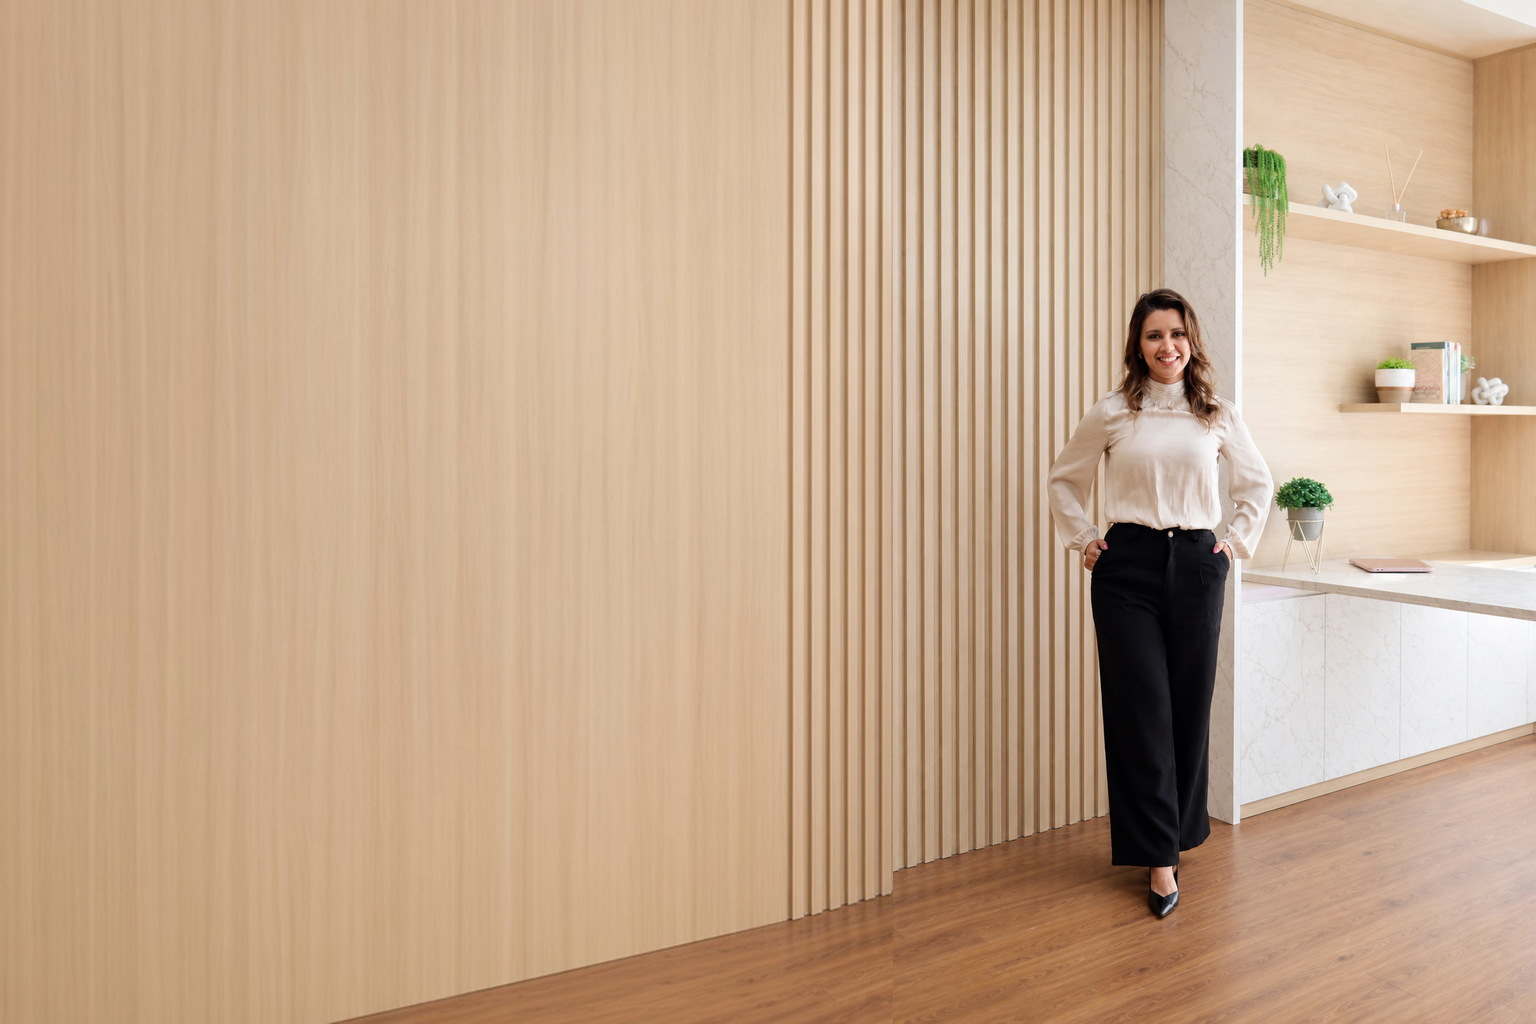
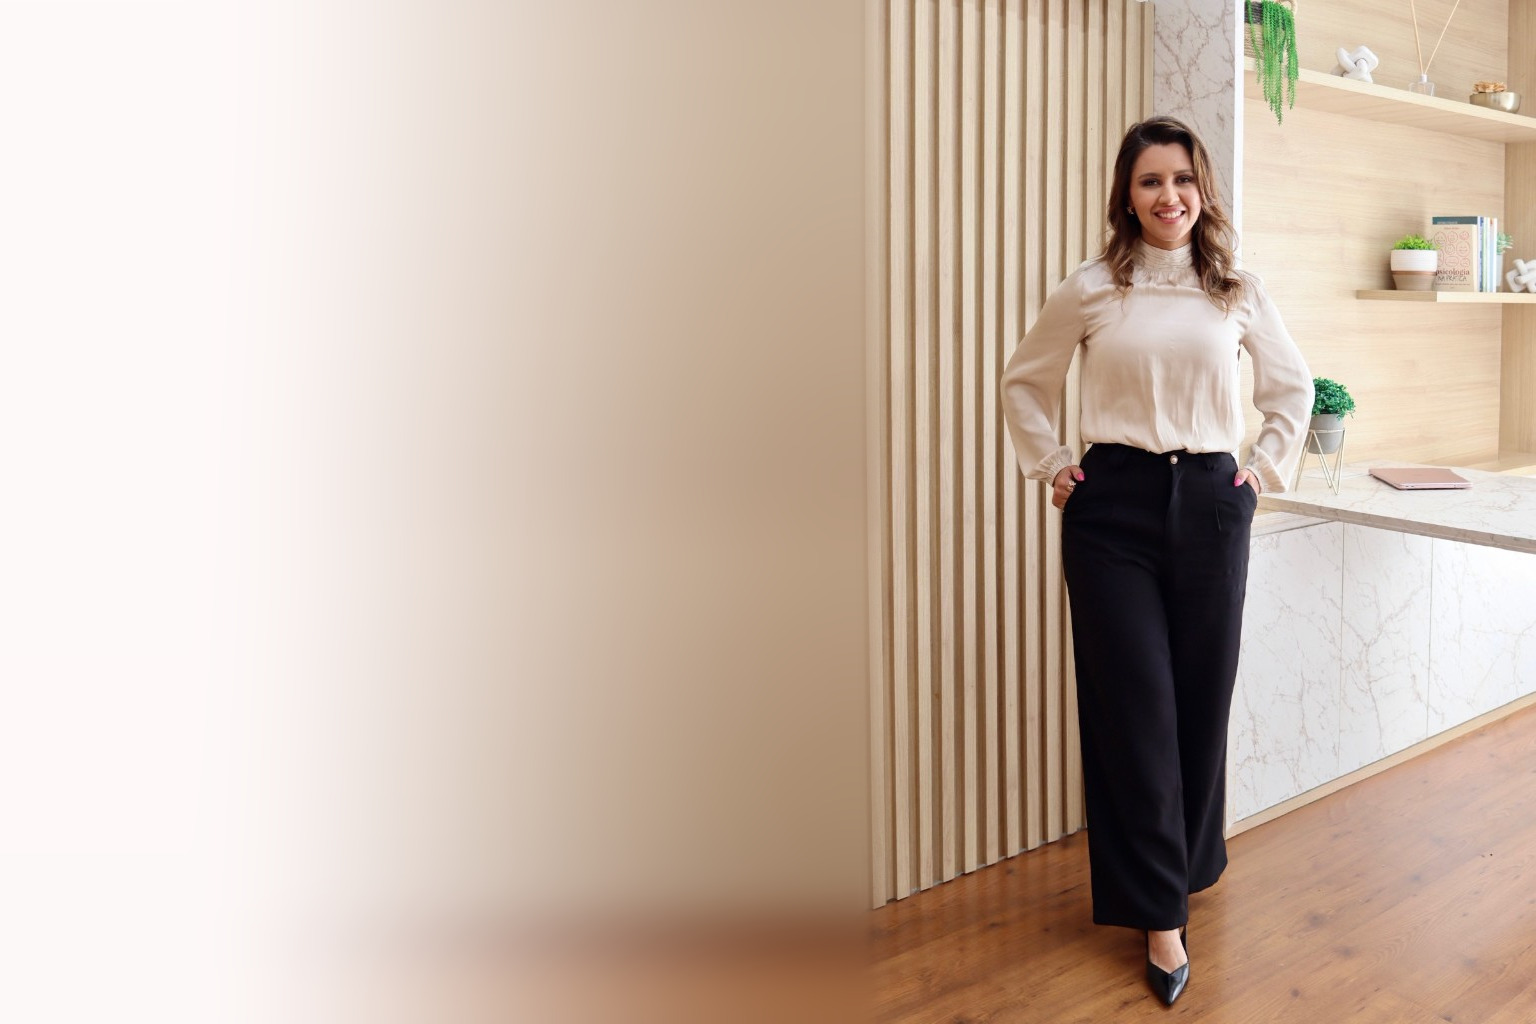
Replace Instituto and Palestras heroes with the new photos and a cream left fade.
Keep Thais's original face and crop Palestras so her head stays fully in frame.

diff --git a/palestras.html b/palestras.html
@@ -16,7 +16,7 @@
       href="https://fonts.googleapis.com/css2?family=Cormorant+Garamond:ital,wght@0,400;0,500;0,600;1,400;1,500&family=Outfit:wght@300;400;500;600&family=Pinyon+Script&display=swap"
       rel="stylesheet"
     />
-    <link rel="stylesheet" href="styles.css?v=btn-gap" />
+    <link rel="stylesheet" href="styles.css?v=grad1" />
   </head>
   <body>
     <a class="skip-link" href="#conteudo">Ir ao conteúdo</a>
@@ -81,9 +81,9 @@
     </header>
 
     <main id="conteudo">
-      <section class="page-hero page-hero-cover hero-zoom-soft" id="inicio">
+      <section class="page-hero page-hero-cover hero-zoom-soft palestras-hero" id="inicio">
         <div class="hero-cover-frame">
-          <img class="hero-cover-img" src="assets/photos/palestras-hero-wide.jpg" alt="" width="1536" height="1024" />
+          <img class="hero-cover-img" src="assets/photos/palestras-hero-wide.jpg?v=grad1" alt="" width="1536" height="1024" />
         </div>
         <div class="page-hero-inner">
           <div class="page-hero-copy">

diff --git a/styles.css b/styles.css
@@ -1570,6 +1570,10 @@ a.path-card[aria-current="true"] {
   transform-origin: 83% 34%;
 }
 
+.page-hero-cover.palestras-hero .hero-cover-img {
+  object-position: 84% 10%;
+}
+
 @media (max-width: 699px) {
   .page-hero-cover.atendimento-hero .hero-cover-img {
     object-position: 86% 42%;
@@ -1581,6 +1585,12 @@ a.path-card[aria-current="true"] {
     object-position: 86% 28%;
     transform: scale(1.5);
     transform-origin: 86% 28%;
+  }
+
+  .page-hero-cover.palestras-hero .hero-cover-img {
+    object-position: 78% 12%;
+    transform: scale(1.18);
+    transform-origin: 78% 12%;
   }
 }
 

diff --git a/instituto.html b/instituto.html
@@ -83,7 +83,7 @@
     <main id="conteudo">
       <section class="page-hero page-hero-cover hero-zoom-soft instituto-hero" id="topo">
         <div class="hero-cover-frame">
-          <img class="hero-cover-img" src="assets/photos/instituto-hero-wide.jpg" alt="" width="1536" height="864" />
+          <img class="hero-cover-img" src="assets/photos/instituto-hero-wide.jpg?v=grad1" alt="" width="1536" height="1024" />
         </div>
         <div class="page-hero-inner">
           <div class="page-hero-copy">
